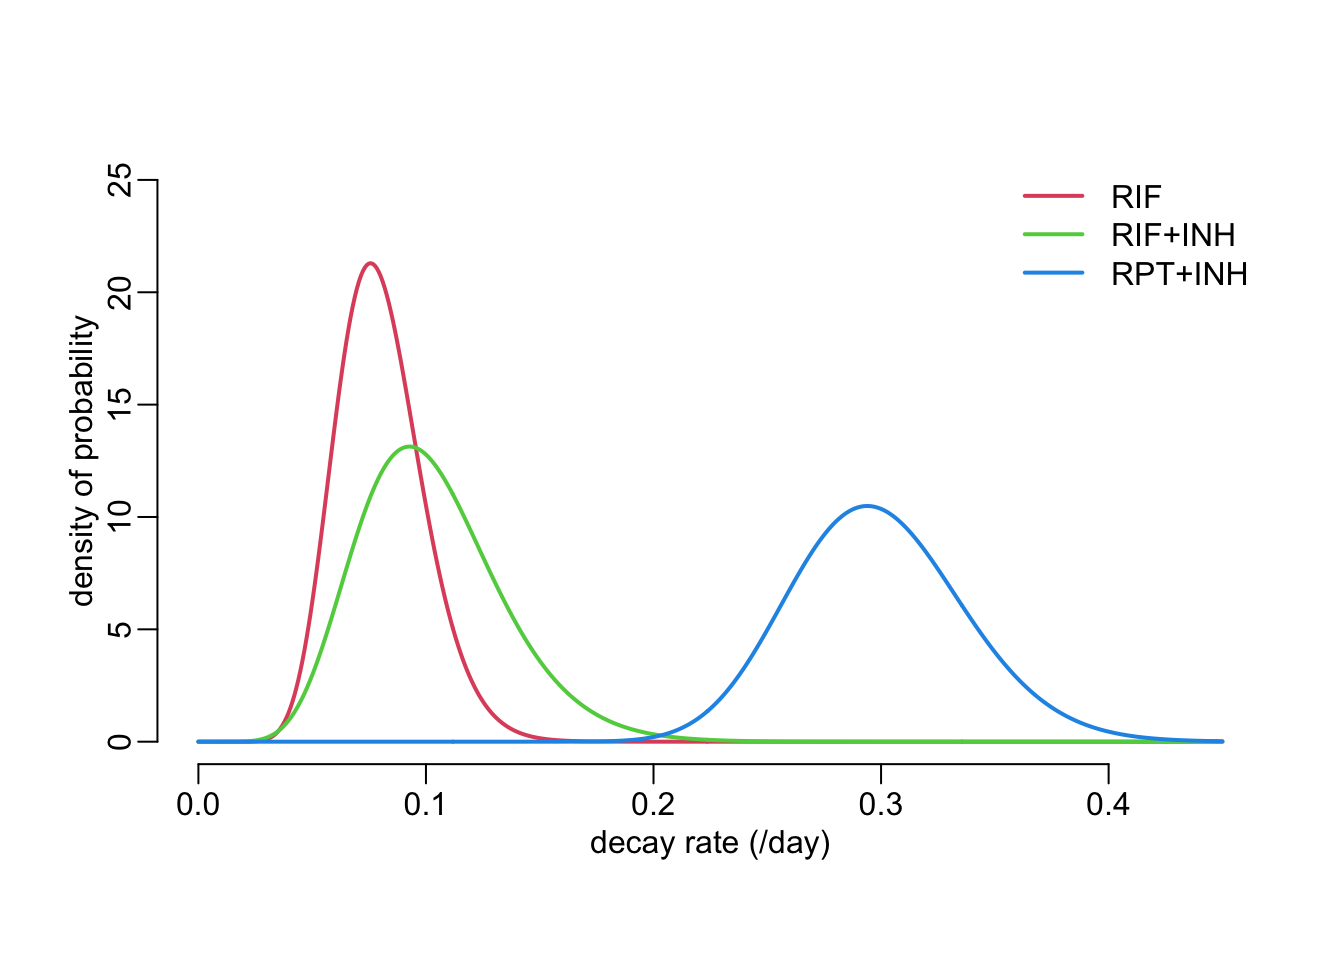
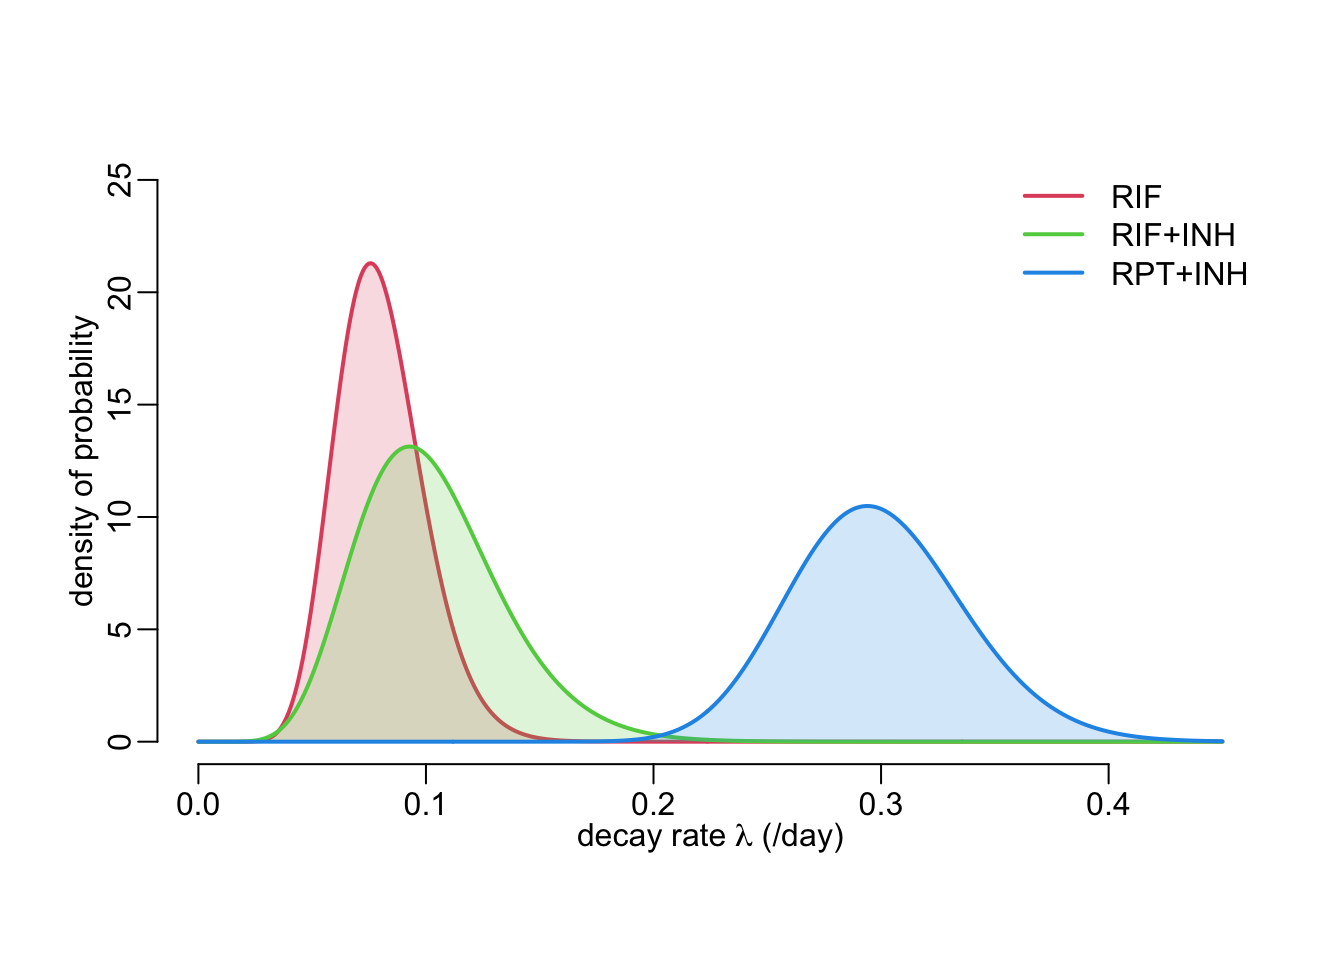
Adding areas under the curves for distributions

Changed region(s): [[0.1875, 0.2812, 0.8438, 0.7812], [0.4375, 0.8438, 0.625, 0.9062]]

diff --git a/analysis.html b/analysis.html
@@ -522,22 +522,27 @@ pre > code.sourceCode > span > a:first-child::before { text-decoration: underlin
 <section id="model-predictions" class="level3" data-number="6.4">
 <h3 data-number="6.4" class="anchored" data-anchor-id="model-predictions"><span class="header-section-number">6.4</span> Model predictions</h3>
 <p>The following figure shows the estimated inter-individual variability of the exponential decay rate:</p>
-<div class="cell" data-layout-align="center" data-hash="analysis_cache/html/unnamed-chunk-31_6dbac274a5f497a592ee82259c64b03d">
-<div class="sourceCode cell-code" id="cb47"><pre class="sourceCode r code-with-copy"><code class="sourceCode r"><span id="cb47-1"><a href="#cb47-1" aria-hidden="true" tabindex="-1"></a>x_max <span class="ot">&lt;-</span> .<span class="dv">45</span></span>
-<span id="cb47-2"><a href="#cb47-2" aria-hidden="true" tabindex="-1"></a>x_val <span class="ot">&lt;-</span> <span class="fu">seq</span>(<span class="dv">0</span>, x_max, <span class="at">le =</span> <span class="dv">512</span>)</span>
-<span id="cb47-3"><a href="#cb47-3" aria-hidden="true" tabindex="-1"></a></span>
-<span id="cb47-4"><a href="#cb47-4" aria-hidden="true" tabindex="-1"></a>add_lines <span class="ot">&lt;-</span> <span class="cf">function</span>(x, col) {</span>
-<span id="cb47-5"><a href="#cb47-5" aria-hidden="true" tabindex="-1"></a>  <span class="fu">lines2</span>(x_val, <span class="fu">dgamma2</span>(x_val, x[<span class="st">"mu"</span>], x[<span class="st">"sigma"</span>]), <span class="at">col =</span> col)</span>
-<span id="cb47-6"><a href="#cb47-6" aria-hidden="true" tabindex="-1"></a>}</span>
-<span id="cb47-7"><a href="#cb47-7" aria-hidden="true" tabindex="-1"></a></span>
-<span id="cb47-8"><a href="#cb47-8" aria-hidden="true" tabindex="-1"></a><span class="fu">plot</span>(<span class="cn">NA</span>, <span class="at">xlim =</span> <span class="fu">c</span>(<span class="dv">0</span>, x_max), <span class="at">ylim =</span> <span class="fu">c</span>(<span class="dv">0</span>, <span class="dv">25</span>),</span>
-<span id="cb47-9"><a href="#cb47-9" aria-hidden="true" tabindex="-1"></a>     <span class="at">xlab =</span> <span class="st">"decay rate (/day)"</span>, <span class="at">ylab =</span> <span class="st">"density of probability"</span>)</span>
-<span id="cb47-10"><a href="#cb47-10" aria-hidden="true" tabindex="-1"></a></span>
-<span id="cb47-11"><a href="#cb47-11" aria-hidden="true" tabindex="-1"></a><span class="fu">c</span>(est_RIF, est_RIFINH, est_RPTINH) <span class="sc">|&gt;</span> </span>
-<span id="cb47-12"><a href="#cb47-12" aria-hidden="true" tabindex="-1"></a>  <span class="fu">map</span>(coef) <span class="sc">|&gt;</span> </span>
-<span id="cb47-13"><a href="#cb47-13" aria-hidden="true" tabindex="-1"></a>  <span class="fu">walk2</span>(<span class="dv">2</span><span class="sc">:</span><span class="dv">4</span>, add_lines)</span>
-<span id="cb47-14"><a href="#cb47-14" aria-hidden="true" tabindex="-1"></a></span>
-<span id="cb47-15"><a href="#cb47-15" aria-hidden="true" tabindex="-1"></a><span class="fu">legend</span>(<span class="st">"topright"</span>, <span class="at">legend =</span> treatments[<span class="sc">-</span><span class="dv">1</span>], <span class="at">col =</span> col_treatments[<span class="sc">-</span><span class="dv">1</span>], <span class="at">lwd =</span> <span class="dv">2</span>, <span class="at">bty =</span> <span class="st">"n"</span>)</span></code><button title="Copy to Clipboard" class="code-copy-button"><i class="bi"></i></button></pre></div>
+<div class="cell" data-layout-align="center" data-hash="analysis_cache/html/unnamed-chunk-31_6dbee62d473f1455b036cd7d7888291e">
+<div class="sourceCode cell-code" id="cb47"><pre class="sourceCode r code-with-copy"><code class="sourceCode r"><span id="cb47-1"><a href="#cb47-1" aria-hidden="true" tabindex="-1"></a>nb_pts <span class="ot">&lt;-</span> <span class="dv">512</span></span>
+<span id="cb47-2"><a href="#cb47-2" aria-hidden="true" tabindex="-1"></a>x_max <span class="ot">&lt;-</span> .<span class="dv">45</span></span>
+<span id="cb47-3"><a href="#cb47-3" aria-hidden="true" tabindex="-1"></a>x_val <span class="ot">&lt;-</span> <span class="fu">seq</span>(<span class="dv">0</span>, x_max, <span class="at">le =</span> nb_pts)</span>
+<span id="cb47-4"><a href="#cb47-4" aria-hidden="true" tabindex="-1"></a>y2 <span class="ot">&lt;-</span> <span class="fu">rep</span>(<span class="dv">0</span>, nb_pts)</span>
+<span id="cb47-5"><a href="#cb47-5" aria-hidden="true" tabindex="-1"></a></span>
+<span id="cb47-6"><a href="#cb47-6" aria-hidden="true" tabindex="-1"></a>add_area <span class="ot">&lt;-</span> <span class="cf">function</span>(x, col) {</span>
+<span id="cb47-7"><a href="#cb47-7" aria-hidden="true" tabindex="-1"></a>  y1 <span class="ot">&lt;-</span> <span class="fu">dgamma2</span>(x_val, x[<span class="st">"mu"</span>], x[<span class="st">"sigma"</span>])</span>
+<span id="cb47-8"><a href="#cb47-8" aria-hidden="true" tabindex="-1"></a>  <span class="fu">polygon2</span>(x_val, y1, y2, <span class="at">col =</span> col)</span>
+<span id="cb47-9"><a href="#cb47-9" aria-hidden="true" tabindex="-1"></a>  <span class="fu">lines2</span>(x_val, y1, <span class="at">col =</span> col)</span>
+<span id="cb47-10"><a href="#cb47-10" aria-hidden="true" tabindex="-1"></a>}</span>
+<span id="cb47-11"><a href="#cb47-11" aria-hidden="true" tabindex="-1"></a></span>
+<span id="cb47-12"><a href="#cb47-12" aria-hidden="true" tabindex="-1"></a><span class="fu">plot</span>(<span class="cn">NA</span>, <span class="at">xlim =</span> <span class="fu">c</span>(<span class="dv">0</span>, x_max), <span class="at">ylim =</span> <span class="fu">c</span>(<span class="dv">0</span>, <span class="dv">25</span>),</span>
+<span id="cb47-13"><a href="#cb47-13" aria-hidden="true" tabindex="-1"></a>     <span class="at">xlab =</span> <span class="fu">expression</span>(<span class="fu">paste</span>(<span class="st">"decay rate "</span>, lambda, <span class="st">" (/day)"</span>)),</span>
+<span id="cb47-14"><a href="#cb47-14" aria-hidden="true" tabindex="-1"></a>     <span class="at">ylab =</span> <span class="st">"density of probability"</span>)</span>
+<span id="cb47-15"><a href="#cb47-15" aria-hidden="true" tabindex="-1"></a></span>
+<span id="cb47-16"><a href="#cb47-16" aria-hidden="true" tabindex="-1"></a><span class="fu">c</span>(est_RIF, est_RIFINH, est_RPTINH) <span class="sc">|&gt;</span> </span>
+<span id="cb47-17"><a href="#cb47-17" aria-hidden="true" tabindex="-1"></a>  <span class="fu">map</span>(coef) <span class="sc">|&gt;</span> </span>
+<span id="cb47-18"><a href="#cb47-18" aria-hidden="true" tabindex="-1"></a>  <span class="fu">walk2</span>(<span class="dv">2</span><span class="sc">:</span><span class="dv">4</span>, add_area)</span>
+<span id="cb47-19"><a href="#cb47-19" aria-hidden="true" tabindex="-1"></a></span>
+<span id="cb47-20"><a href="#cb47-20" aria-hidden="true" tabindex="-1"></a><span class="fu">legend</span>(<span class="st">"topright"</span>, <span class="at">legend =</span> treatments[<span class="sc">-</span><span class="dv">1</span>], <span class="at">col =</span> col_treatments[<span class="sc">-</span><span class="dv">1</span>], <span class="at">lwd =</span> <span class="dv">2</span>, <span class="at">bty =</span> <span class="st">"n"</span>)</span></code><button title="Copy to Clipboard" class="code-copy-button"><i class="bi"></i></button></pre></div>
 <div class="cell-output-display">
 <div class="quarto-figure quarto-figure-center">
 <figure class="figure">
